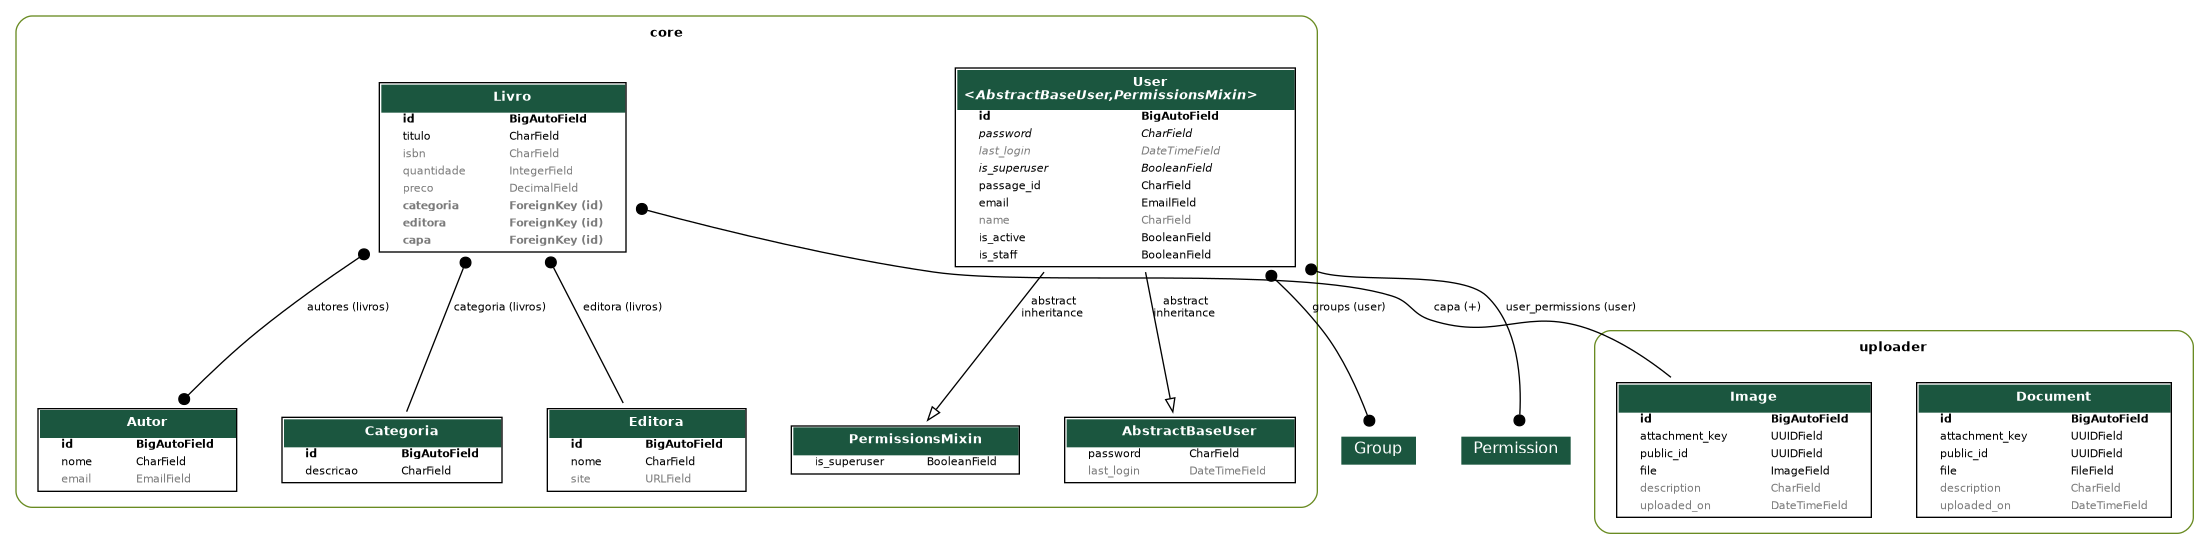
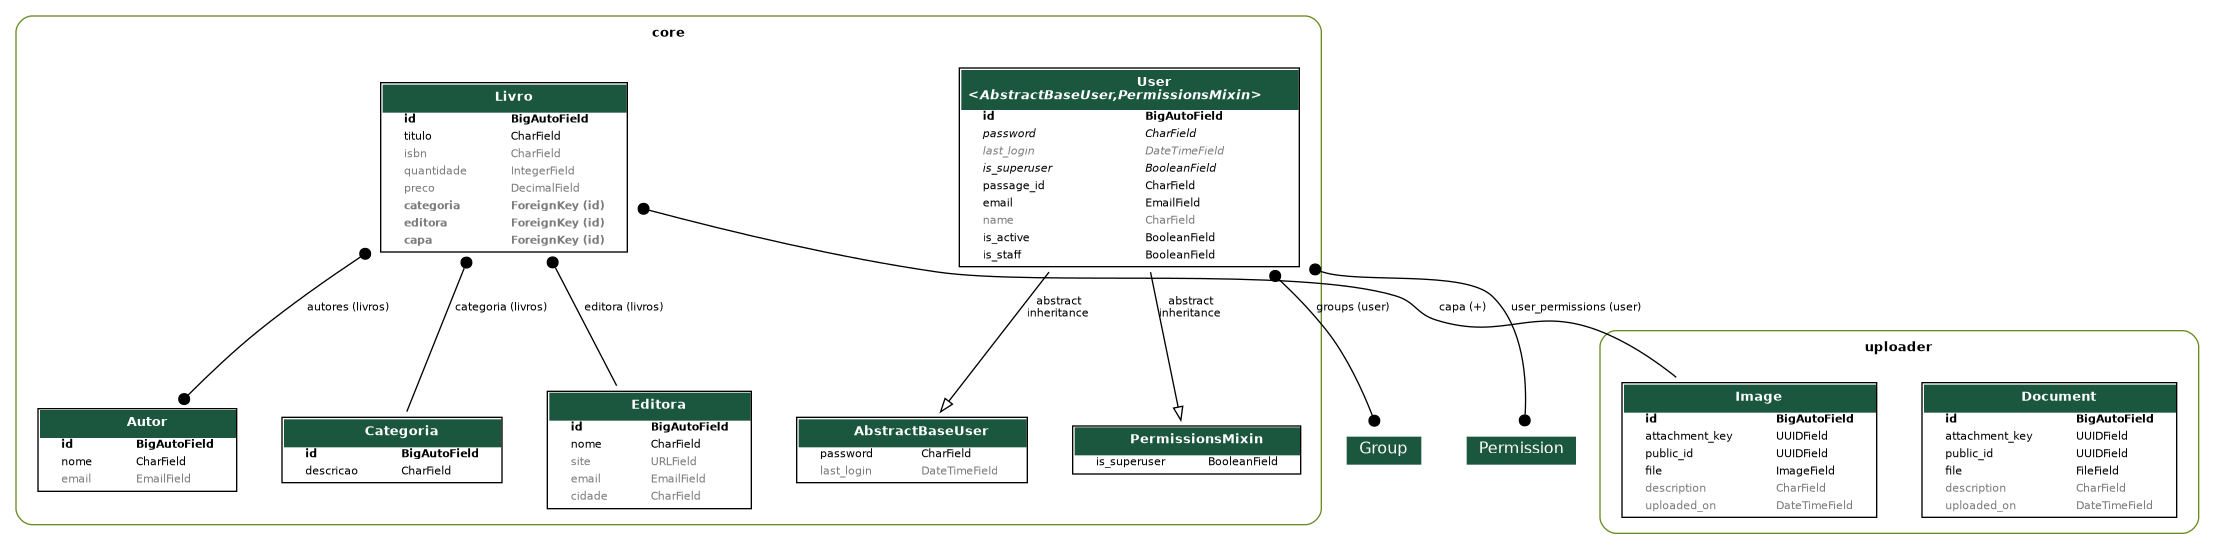
feat: adição dos campos 'cidade' e 'email' ao modelo Editora

diff --git a/core/migrations/0012_editora_cidade_editora_email.py b/core/migrations/0012_editora_cidade_editora_email.py
@@ -1,0 +1,23 @@
+# Generated by Django 5.2.4 on 2025-08-03 21:17
+
+from django.db import migrations, models
+
+
+class Migration(migrations.Migration):
+
+    dependencies = [
+        ('core', '0011_livro_capa'),
+    ]
+
+    operations = [
+        migrations.AddField(
+            model_name='editora',
+            name='cidade',
+            field=models.CharField(blank=True, max_length=100, null=True),
+        ),
+        migrations.AddField(
+            model_name='editora',
+            name='email',
+            field=models.EmailField(blank=True, max_length=100, null=True),
+        ),
+    ]
